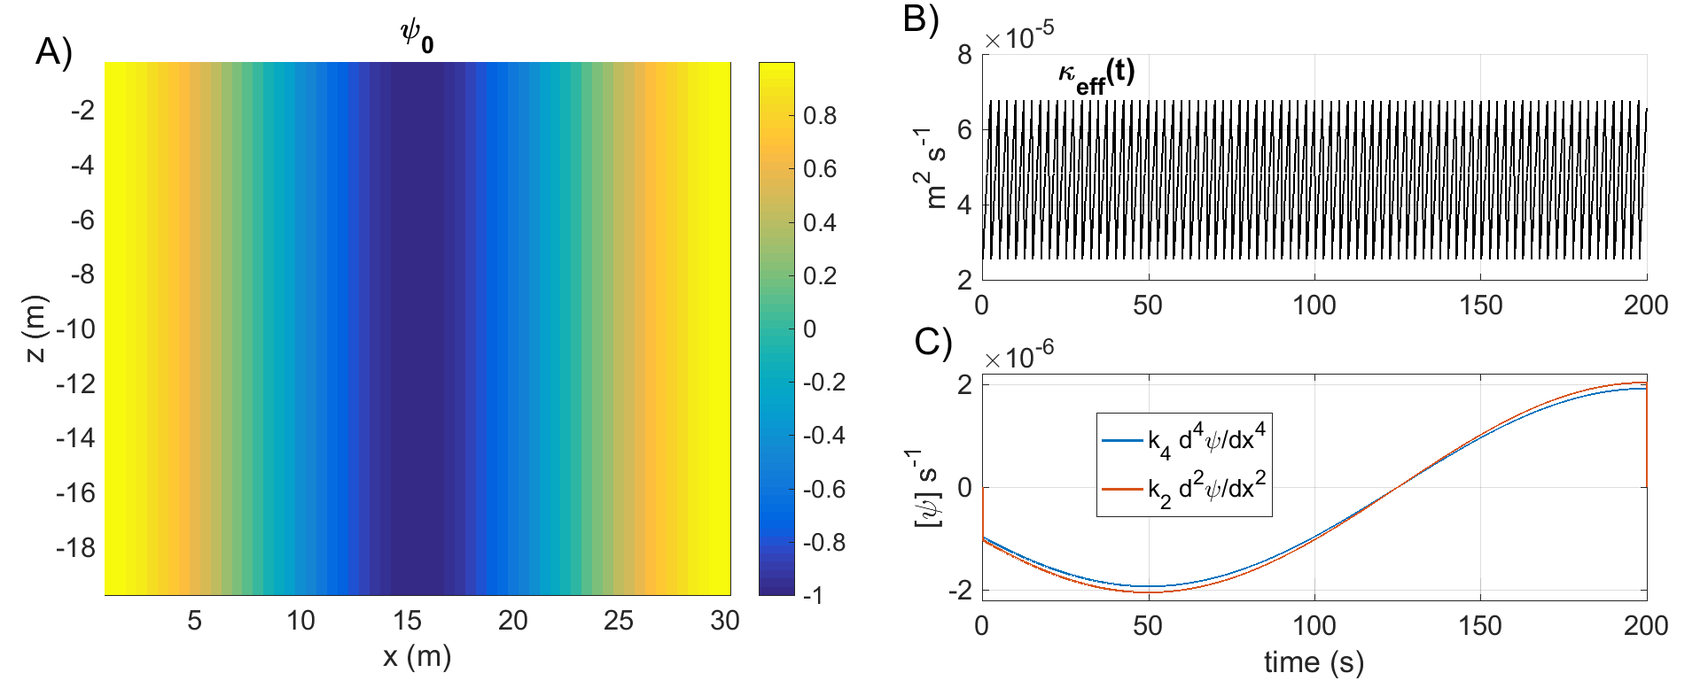
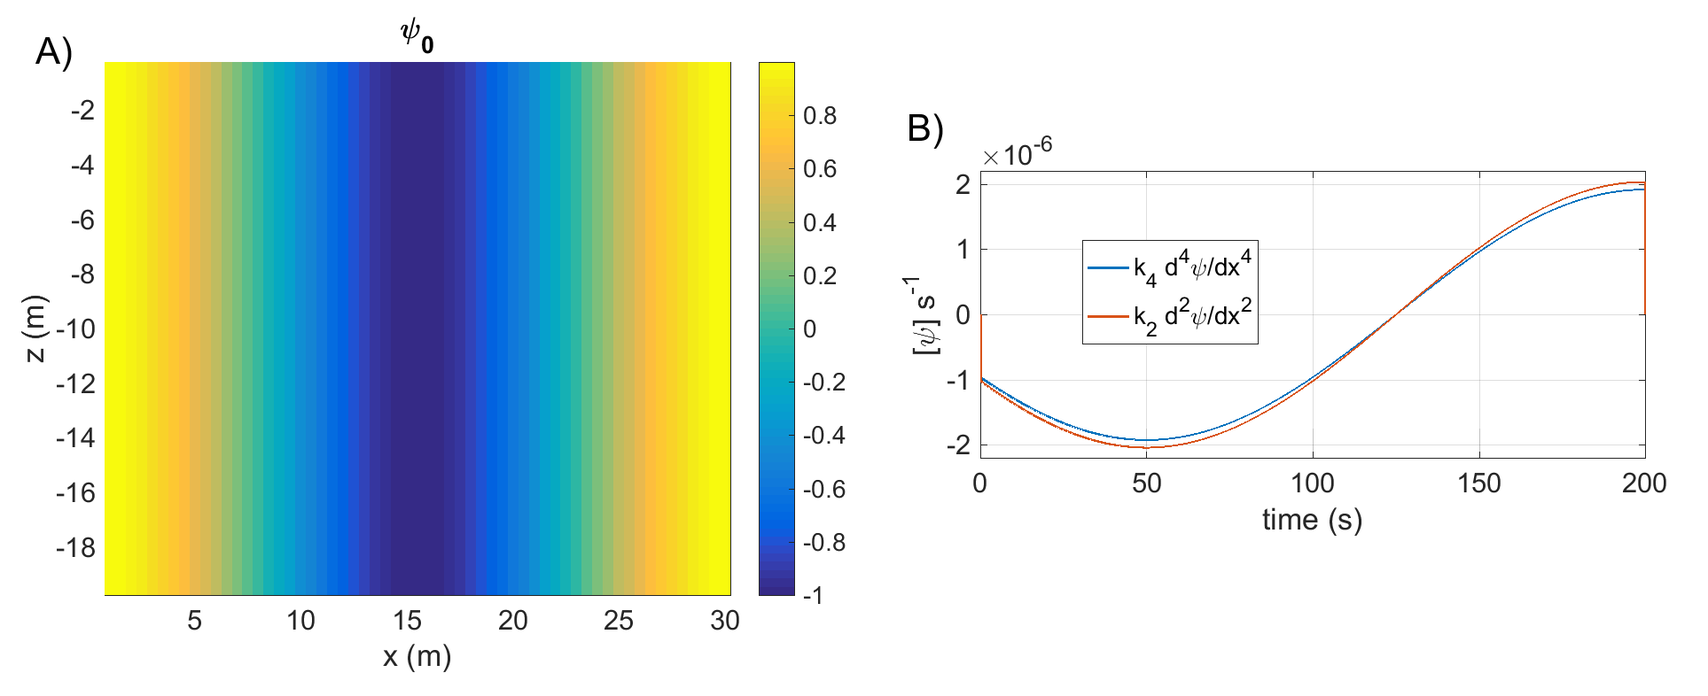
Intro + §5, Francis.

diff --git a/INTRO/intro.tex b/INTRO/intro.tex
@@ -46,7 +46,7 @@ Mais l'océan ne se résume toutefois pas à une somme de processus "forcés" do
 Les vents et les flux de chaleur induisent ainsi des structures dynamiques (baroclines) qui sont brisées lorsque l'écoulement devient instable \citep{vallis_atmospheric_2006}.
 Les \textit{instabilités barotropes et baroclines} sont par conséquent au coeur de cette cascade dite inverse, elles rythment les transferts autour des rayons de Rossby\footnote{Échelle caractéristique de longueur caractérisant localement l'impact de la rotation du globe terrestre sur une colonne océanique de stratification donnée.} barotropes et baroclines dans les écoulements de mésoéchelles. On parle de régime de \textit{turbulence géostrophique} \citep{charney_geostrophic_1971} dans une région du spectre où stratification de la colonne d'eau et rotation du globe terrestre jouent \textit{in fine} des rôles prépondérants et sont associés à des équations de bilan équilibrées de quantité de mouvement. La cascade inverse demeure toutefois un modèle qualitatif fournissant une grille de lecture pour processus complexes et "non localisés" du le spectre océanique.
 
-Des structures de sous-mésoéchelle reçoivent ainsi énergie et enstrophie et sont elles-aussi sujettes à un large éventail d'instabilités \citep{mcwilliams_submesoscale_2016}: instabilité agéostophique, symétrique, frontale, convective ou encore instabilités de cisaillement, instabilités baroclines dans la couche de mélange océanique, instabilités paramétriques des ondes internes... Dans cette région du spectre, l'impact de la rotation du globe terrestre est plus faible qu'à mésoéchelle mais la stratification contraint fortement la dynamique océanique débouchant sur des formes de turbulence dites "stratifiées": \textit{turbulence stratifiée dissipative}, \textit{turbulence fortement stratifiée}. l'instabilité "zig-zag" fait office de pont entre ces deux formes de turbulence).
+Des structures de sous-mésoéchelle reçoivent ainsi énergie et enstrophie et sont elles-aussi sujettes à un large éventail d'instabilités \citep{mcwilliams_submesoscale_2016}: instabilité agéostophique, symétrique, frontale, convective ou encore instabilités de cisaillement, instabilités baroclines dans la couche de mélange océanique, instabilités paramétriques des ondes internes... Dans cette région du spectre, l'impact de la rotation du globe terrestre est plus faible qu'à mésoéchelle mais la stratification contraint fortement la dynamique océanique débouchant sur des formes de turbulence dites "stratifiées": \textit{turbulence stratifiée dissipative}, \textit{turbulence fortement stratifiée} \citep{augier_turbulence_2012}. l'instabilité "zig-zag" fait office de pont entre ces deux formes de turbulence.
 
 Les myriades d'ondes de gravité internes et d'ondes de gravité de surface interagissent aussi au point de donner lieu à une forme particulière de turbulence: \textit{la turbulence d'onde}. Leur déferlement, leurs instabilités donnent généralement naissance à des "patchs turbulents" annoncés par l'apparition de grandes structures turbulentes.
 
@@ -79,10 +79,41 @@ La dissipation turbulente exerce donc une rétroaction sur les plus grandes éch
 \subsection{Le détroit de Gibraltar}
 %(intérêt de la zone en vu du blabla précédent)
 \color{blue}
-Les talus continentaux, dorsales océaniques, les monts sous-marins isolés et autres détroits sont autant d'accidents bathymétriques qui canalisent, perturbent, modifient la circulation générale des masses d'eau océaniques et plus généralement la dynamique de l'océan. Les accidents bathymétriques sont localement le siège de régimes de couches limites particuliers entraînant quasi-systématiquement l'apparition de structures turbulentes très localisées spatialement et ouvrant ainsi les portes de la "terra incognita".\\
-Le détroit de Gibraltar déjà cité dans le paragraphe précédent (\S \noparref{subsection_retroactions}) comme exemple de région abritant des processus de fine échelle structurant la dynamique océanique de grande échelle, constitue l'archétype de l'accident topographique contraignant fortement la dynamique océanique. Il est en effet le lieu de passage obligé des échanges entre les bassins méditerranéens et atlantiques nord.\\
-\color{red}
-Je te laisse compléter avec une présentation de la dynamique de cette région : marée + circulation générale => ressaut + ISW +... fort mélange.\\
+Les talus continentaux, dorsales océaniques, les monts sous-marins isolés et autres détroits sont autant d'accidents bathymétriques qui canalisent, perturbent, modifient la circulation générale des masses d'eau océaniques et plus généralement la dynamique de l'océan. Les accidents bathymétriques sont localement le siège de régimes de couches limites particuliers entraînant quasi-systématiquement l'apparition de structures turbulentes très localisées spatialement et ouvrant ainsi les portes de la "terra incognita".
+
+Le Détroit de Gibraltar, déjà cité dans le paragraphe précédent (\S \noparref{subsection_retroactions}) comme exemple de région abritant des processus de fine échelle structurant la dynamique océanique de grande échelle, constitue l'archétype de l'accident topographique contraignant fortement la dynamique océanique. \color{red}Le détroit est en effet la seule connexion de la mer Méditerranée, mer semi-fermée, à l'océan global. Ses dimensions spatiales sont réduites à la verticale (de 300 à 1km de profondeur) et à l'horizontale (de l'ordre de la quinziane de kilomètres entre les côtes Marocaines et Espagnoles), ce qui va canaliser un échange de masses d'eaux entrantes et sortantes, dit \textit{échange barocline}, entre les deux bassins méditerranéens et atlantiques nord. Le croisement de ces deux flux donne un transport net barotrope qui, en moyenne temporelle, est positif pour la Méditerranée et va compenser l'évaporation annuelle dans ce bassin \citep{bryden_1994}.
+
+La circulation dans le détroit à l'échelle locale ne se résume cependant pas à l'alimentation de la Méditerranée. L'accélération des courants par effet de canalisation par la bathymétrie et les côtes se cumule au courants induits par la marée semi-diurne pour créer une dynamique de courants relativement rapides (pouvant être de l'ordre du $m/s$) qui vont évoluer à l'échelle de l'heure (voir de la demi-heure). En particulier, les courants peuvent être suffisamment rapides pour dépasser la vitesse de propagation de certaines ondes internes de gravité, on dit alors que le flot est surcritique \citep{Baines1995}. La canalisation par la côte et la bathymétrie variant sur des courtes distance, le flot peut passer localement d'un régime surcritique à sous-critique en modifiant les conditions d'écoulement des eaux atlantiques et méditerranéennes. Au niveau du seuil prinicpal du Détroit de Gibraltar, le Seuil de Camarinal, une telle transition entraîne la formation puis la relaxation d'un \textit{ressaut hydraulique} au cours du cycle de marée.
+
+Le Seuil de Camarinal est l'accident bathymétrique le moins profond du détroit et sert de barrière à franchir pour les eaux méditerranéennes qui circulent sous les eaux atlantiques et vont s'écouler comme un courant de gravité ne foid franchis cet obstacle. \citep{wesson_1994,garcia-lafuente_2011}
+
+Additionnellement, la relaxation du ressaut hydraulique se fait sous la forme d'une onde interne de très grande amplitude qui se propage vers la Méditerranée en évoluant en train d'ondes solitaires (ou solitons). 
+
+
+
+
+%Des eaux atlantiques entrent en Méditerranée dans la partie supérieure de la colonne d'eau. Sous cette circulation de surface, des eaux méditerranéennes s'introduisent dans le bassin Atlantique. 
+
+
+
+
+%Au niveau des flux entrant et sortant propres, cette circulation moyenne est de l'ordre de $1 Sverdrup (=10^6 m^3/s)$ 
+
+
+
+
+
+
+
+
+
+
+%\color{red}
+%Je te laisse compléter avec une présentation de la dynamique de cette région : marée + circulation générale => ressaut + ISW +... fort mélange.\\
+
+
+
+
 \color{blue}
 La dissipation turbulente est répartie de façon très hétérogène dans la colonne d'eau océanique, souvent préférentiellement dans les couches de surface et de fond et généralement sous la forme d'évènements intermittents (on parle de bouffées turbulentes). Ces caractéristiques compliquent grandement sa localisation et sa quantification même si son impact sur la circulation générale est maintenant reconnu et décrit de façon très qualitative \cite{de_lavergne_abyssal_2017}. La région du détroit de Gibraltar offre donc un terrain d'étude particulièrement pertinent pour qui souhaite étudier cette dissipation turbulente et ses rétroactions puisque les bouffées turbulentes semblent devoir être associées aux régimes dynamiques présentant de fortes amplitudes de marée (donc facilement localisables dans le temps) et au dessus des principaux seuils parsemant le détroit (donc facilement localisables géographiquement cette fois).\\
 Le choix du détroit de Gibraltar comme région d'étude privilégiée pour mes travaux de doctorat se justifie donc à plusieurs titres. Elle est particulièrement adaptée pour une première exploration en \textit{terra incognita} puisque quelques portes ouvrant une voie vers cette terre inconnue semblent y être facilement localisables: les grandes structures turbulents peuvent être un peu plus facilement localisables, observables et donc simulées explicitement de façon numérique. Le détroit de Gibraltar est de plus une région de choix pour mieux appréhender l'impact (la rétroaction) que pourrait avoir la dissipation turbulente sur la circulation générale dans les bassins méditerranéens et nord-atlantiques: il s'agit donc d'une région de choix pour étudier comment cette dissipation peut structurer une dynamique à beaucoup plus grande échelle.
@@ -94,29 +125,29 @@ Le choix du détroit de Gibraltar comme région d'étude privilégiée pour mes 
 %(verrous puis objectif)
 \subsection{Définir cette région du spectre océanique}
 Objet central de mes travaux de doctorat, les \textit{fines échelles} océaniques doivent en premier lieu être clairement définies. Jusqu'ici, ces fines échelles ont plus spécifiquement été associées dans notre introduction (\S \noparref{subsection_intro1}) à la région du spectre océanique identifiée comme \textit{Terra incognita}.\\
-Les fines échelles sont donc par la suite définies comme les échelles spatiales et temporelles de l'ensemble des processus et autres mécanismes dynamiques de \textit{sous-mésoéchelle} \citep{mcwilliams_submesoscale_2016} auxquels s'ajoutent les grandes structures turbulentes ouvrant la voie à la cascade directe et marquant l'entrée de la \textit{micro-échelle}.
+Les fines échelles sont donc par la suite définies comme les échelles spatiales et temporelles de l'ensemble des processus et autres mécanismes dynamiques de \textit{sous-mésoéchelle} \citep{mcwilliams_submesoscale_2016} auxquels s'ajoutent les grandes structures turbulentes qui ouvrent la voie à la cascade directe et marquent l'entrée de la \textit{micro-échelle}.
  \color{black}
 
 \subsection{Se donner les outils et les moyens d'une telle exploration}
 \color{blue}
 Toute entrée dans un territoire inconnu tel que la \textit{terra incognita} est associée à la reconnaissance et à la levée d'un certain nombre de difficultés. Dans le cas présent, ces "difficultés" prennent la forme de véritables \textit{verrous} d'ordres dynamiques et numériques.
 \subsubsection{Verrous dynamiques.}
-Un certain nombre de "verrous" dynamiques peuvent être identifiés. Les grandes structures turbulentes dont il est en particulier question ici sont le résultat de diverses instabilités "primaires" peuplant la méso et la sous-méso-échelle océaniques: instabilités barotrope, barocline, symétrique, zig-zag, agéostrophique, paramétrique des ondes internes, etc... Ces mécanismes de déstabilisation peuvent être vus comme brisant des structures, des processus, des équilibres subtils régissant localement et de façon éphémère et intermittente la dynamique de l'océan. Leur exploration relève par conséquent plus d'une approche stochastique que purement déterministe.\\
-Les grandes structures turbulentes constituent de plus des processus certes importants mais néanmoins indissociables des transferts d'échelles auxquels elles sont associées. Ni les échelles spatiales ni les échelles temporelles des instabilités de cisaillement ne sont clairement identifiables à partir de grandeurs caractéristiques comme le peuvent être les rayons de Rossby pour la méso-échelle et les instabilités barotropes et baroclines. Leur étude requiert donc la prise en compte simultanée de régions étendues du spectre océanique.\\
+Un certain nombre de "verrous" dynamiques peuvent être identifiés. Les grandes structures turbulentes dont il est en particulier question ici sont le résultat de diverses instabilités "primaires" peuplant la méso et la sous-méso-échelle océaniques: instabilités barotrope, barocline, symétrique, zig-zag, agéostrophique, paramétrique des ondes internes, etc... Ces mécanismes de déstabilisation peuvent être vus comme brisant de façon intermittent des structures, des processus, des équilibres subtils régissant localement et de façon éphémère la dynamique de l'océan. Leur exploration relève par conséquent plus d'une approche stochastique que purement déterministe.\\
+Les grandes structures turbulentes constituent de plus des processus certes importants mais néanmoins indissociables des transferts d'échelles auxquels elles sont associées. Leur localisation au sein du spectre n'est pas chose aisée dans la mesure où ni les échelles spatiales ni les échelles temporelles des instabilités de cisaillement ne sont clairement identifiables à partir de grandeurs caractéristiques comme le peuvent être les rayons de Rossby pour la méso-échelle et les instabilités barotropes et baroclines. Leur étude requiert donc la prise en compte simultanée de régions étendues du spectre océanique.\\
 
 \subsubsection{Verrous numériques.}
-Les grandes structures turbulentes étaient traditionnellement l'apanage des modèles "sous-maille" dans les configurations océaniques côtières, régionales et à fortiori globales. N'étant par conséquent pas universels, ces modèles "sous-maille" rendent la simulation très dépendante du lieu et de la période étudiés: les "modèles de fermeture" doivent en effet être ajustés et confrontés à la réalité avec comme principal enjeu le choix du modèle et la détermination des paramètres physiques ou numériques qu’il inclut nécessairement. Si la mise en place de configurations LES est envisageable et envisagée dans l’océan intérieur et peut donc être appuyée sur des modèles de turbulence plus universels et plus simple, elle demeure par contre hors d’atteinte dans les couches limites de surface et fond, régions dans lesquelles leurs échelles spatiales caractéristiques peuvent considérablement décroître pour être finalement de l'ordre du mètre. Des approches hybrides LES / RANS\footnote{Pour Reynolds Averages Simulations.} dites "zonales" doivent par conséquent être envisagées \citep{friess_modelisation_2010} afin d'associer approche LES là où cela est possible et approche RANS là où cela est indispensable.\\
+Les grandes structures turbulentes étaient traditionnellement l'apanage des modèles "sous-maille" dans les configurations océaniques côtières, régionales et à fortiori globales. N'étant par conséquent pas universels, ces modèles "sous-maille" rendent la simulation très dépendante du lieu et de la période étudiés: les "modèles de fermeture" doivent en effet être ajustés et confrontés à la réalité avec comme principal enjeu le choix du modèle et la détermination des paramètres physiques ou numériques. Si la mise en place de configurations LES est envisageable et envisagée et peut donc être appuyée sur des modèles "sous maille" plus universels et plus simple, elle demeure par contre hors d’atteinte dans les couches limites de surface et fond, régions dans lesquelles leurs échelles spatiales caractéristiques peuvent considérablement décroître pour être finalement de l'ordre du mètre. Des approches hybrides LES / RANS\footnote{Pour Reynolds Averages Simulations.} dites "zonales" doivent par conséquent être envisagées \citep{friess_modelisation_2010} afin d'associer approche LES là où cela est possible et approche RANS là où cela est indispensable.\\
 La simulation explicite des grandes structures turbulents engendre l'utilisation de grilles de calcul à très haute résolution sur des régions océaniques à priori relativement étendues. Elle requière donc un nouvel effort de réduction du coût de calcul et s'inscrit de fait dans le cadre d'approches numériques massivement parallèles associées au \textit{Calcul dit Haute Performance} (HPC).
 
 \color{black}
 \subsection{Simuler explicitement les fines échelles}
 \color{blue}
 Explorer numériquement les fines échelles océaniques implique de simuler explicitement les grandes structures turbulentes et l'on entre ainsi de plain-pied dans une approche numérique dite \textit{LES (pour \textit{Large Eddy Simulation})}.\\
-La promesse d’une puissance de calcul pétaflopique puis exaflopique a, en théorie au moins, ouvert les portes de la simulation des grandes structures turbulentes (LES) pour l’océan et l’atmosphère. Les météorologues ont par exemple rapidement su tirer parti des moyens de calcul disponibles : des algorithmes dédiés ont vu le jour dès le début des années 2000 débouchant sur des codes numériques tels que WRF en version compressible ou Méso-NH en version anélastique. Ces deux types de codes permettent, chacun avec leurs spécificités, d’aborder la simulation de la cascade turbulente directe en représentant explicitement les plus grandes structures turbulentes dans l’atmosphère.
-Les modèles océaniques n’ont pas été immédiatement en mesure de franchir ce cap de la LES en grande partie à cause de la présence d’une surface libre aux conséquences dynamiques multiples. La surface libre rend en particulier plus complexe la relaxation de l’hypothèse hydrostatique. Dans la foulée de l’ANR COMMODO rassemblant au milieu des années 2010 l’ensemble des équipes françaises travaillant sur la modélisation de l’océan, les équipes de recherche en océanographie dynamique et en mathématiques partenaires du projet CROCO se sont associées pour développer une nouvelle génération de codes capables d'explorer la "Terra Incognita". Un Groupement de Recherche éponyme est né associant l’université de Toulouse et les principaux organismes de recherche en informatique et en océanographie français: l’IRD, INRIA, le CNRS-INSU, l’IFREMER et le SHOM. En 2021, l’IRD a entériné la constitution d’un GdRi CROCO tourné vers nos partenaires au Sud.\\
+La promesse d’une puissance de calcul pétaflopique puis exaflopique a, en théorie au moins, ouvert les portes de la simulation des grandes structures turbulentes (LES) pour l’océan et l’atmosphère. Les météorologues ont par exemple rapidement su tirer parti des moyens de calcul disponibles: des algorithmes dédiés ont vu le jour dès le début des années 2000 débouchant sur des codes numériques tels que WRF \citep{skamarock_prototypes_2001} en version compressible ou Méso-NH \citep{lac_overview_2018} en version anélastique. Ces deux types de codes permettent, chacun avec leurs spécificités, d’aborder la simulation de la cascade turbulente directe en représentant explicitement les plus grandes structures turbulentes dans l’atmosphère.
+Les modèles océaniques n’ont pas été immédiatement en mesure de franchir ce cap de la LES en grande partie à cause de la présence d’une surface libre aux conséquences dynamiques multiples. Cette dernière rend en particulier plus complexe la relaxation de l’hypothèse hydrostatique: elle est en effet parcourue par des ondes de gravité se propageant très rapidement et présentant des dynamiques différentes selon que l'hypothèse "onde longue" (hydrostatique) est, ou non, satisfaite. Cette surface libre a en parculier été associée à des choix algorithmiques et numériques spécifiques que la séparation des pas de temps (\textit{time splitting} en anglais) dont la généralisation sous une hypothèse non-hydrostatique doit être réalisée avec soin \citep{auclair_non-hydrostatic_2011,auclair_non-hydrostatic_2018}.\\
 Plusieurs pré-requis ont toutefois dû être satisfaits avant de lancer une exploration numérique des grandes structures turbulentes dans un contexte réaliste aussi complexe que celui du détroit de Gibraltar.
-L'hypothèse hydrostatique, elle-aussi héritée du code ROMS, devait à minima être remise en cause en demeurant dans le contexte d'un océan à surface libre. Ceci fut chose en fait en relaxant aussi l'hypothèse de Boussinesq comme préconisée dans un contexte océanique par \cite{auclair_non-hydrostatic_2018}. L'héritage reçu du code américain ROMS \citep{shchepetkin_regional_2005} avait fait de CROCO un code particulièrement efficace dont le coeur numérique (son time-splitting, ses schémas numériques...) a été spécifiquement conçu pour limiter les coûts de calcul et l'utilisation de l'espace mémoire. Ce niveau de performance numérique a été maintenu pour son noyau numérique compressible et non-hydrostatique dans un contexte massivement parallèle.\\
-De nouvelles recherches ont été entamées en parallèle de mes travaux de thèse pour (i) porter le code sur une nouvelle génération de processeurs dits hétérogènes (associant CPU et GPU), (ii) permettre le raffinement local de la dynamique océanique par imbrication de configurations LES dans des maquettes numériques régionales très étendues et (iii) repenser la simulation des grandes structures turbulentes dans un contexte "stochastique" \cite{memin_fluid_2014}. Les maquettes que j'ai développées ou co-développées dans le cadre de mes travaux de thèse ont servi durant ces trois années et servent actuellement de configuration-tests pour l'ensemble de ces développements transformant le détroit de Gibraltar en une région de démonstration. \\
+Pour ce faire, dans la foulée de l’ANR COMMODO rassemblant au milieu des années 2010 l’ensemble des équipes françaises travaillant sur la modélisation de l’océan, les équipes de recherche en océanographie physique et en mathématiques se sont associées au sein du projet CROCO. Un Groupement de Recherche éponyme est né associant les principaux organismes de recherche en informatique et en océanographie français: l’IRD, INRIA, le CNRS-INSU, l’IFREMER et le SHOM avec l'Université de Toulouse Paul Sabatier. En 2021, l’IRD a entériné la constitution d’un GdR-international CROCO tourné vers les partenaires du projet au Sud. L'hypothèse hydrostatique, elle-aussi héritée du code ROMS, devait à minima être remise en cause tout en demeurant dans le contexte d'un océan à surface libre. Ceci fut chose faite en relaxant aussi l'hypothèse de Boussinesq comme préconisée dans un contexte océanique par \cite{auclair_non-hydrostatic_2018}. L'héritage reçu du code américain ROMS \citep{shchepetkin_regional_2005} avait fait de CROCO un code particulièrement efficace dont le coeur numérique (time-splitting, schémas numériques...) a été spécifiquement conçu pour limiter les coûts de calcul et l'utilisation de l'espace mémoire. Ce niveau de performance numérique a été maintenu pour le noyau numérique compressible et non-hydrostatique dans un contexte massivement parallèle.\\
+Afin de répondre finalement à l'ensemble des verrous dynamiques et numériques identifiés, de nouvelles recherches ont été entamées en parallèle de mes travaux de thèse pour (i) porter le code sur une nouvelle génération de processeurs dits hétérogènes (associant CPU et GPU), (ii) permettre le raffinement local de la dynamique océanique par imbrication de configurations LES dans des maquettes numériques régionales très étendues et (iii) repenser la simulation des grandes structures turbulentes dans un contexte "stochastique" \cite{memin_fluid_2014}. Les maquettes que j'ai développées ou co-développées dans le cadre de mes travaux de thèse ont servi durant ces trois années et servent actuellement de configuration-tests pour l'ensemble de ces développements transformant le détroit de Gibraltar en une région de démonstration. \\
 \color{blue}
 \subsection{Où l'on justifie une démarche scientifique pour cette exploration...}
 \color{black}

diff --git a/CHAP_BPE/chap5.tex b/CHAP_BPE/chap5.tex
@@ -84,9 +84,9 @@ Total volume is supposed to remain constant so that the RHS term $\phi_{\zeta}$ 
 Depending on the test-case considered, the initial field of passive tracer is either equal to $\psi_1(x)=cos(2\pi x/L_x)$ or to $\psi_2(x,z)=Re(e^{i2\pi x/L_x}e^{i 2 \pi z/L_z})$.
 
 \subsection{Local diffusion test configuration $(BPE_{exp})$}
-\color{red} Intervertir section advection et diffusion???\color{black}
+\color{red} Intervertir section advection et diffusion??? Nous n'en avons pas reparlé ce mercredi matin Margaux... mais j'en resterais là!\color{black}
 
-The first implementation is that of a diffusive but advection-free flow ($u=0m/s$). The main numerical parameters are given in table \ref{tab_NUMLAB_exp}.
+The first implementation is that of a diffusive but advection-free flow ($U\ =\ 0m/s$). The main numerical parameters are given in table \ref{tab_NUMLAB_exp}.
 
 \begin{table}[h]
         %\begin{minipage}{.6\textwidth}
@@ -122,15 +122,11 @@ The first implementation is that of a diffusive but advection-free flow ($u=0m/s
 %\item For x$<$15 m, $\kappa_{exp} = 10^{-3}$, otherwise $\kappa_{exp} = 10^{-2}$ m$^2$/s.
 
 The chosen initial passive tracer field is given by $\psi_2 (x,z)$ and is shown in figure (\noparref{fig2numlab}.A1).
-
 To evaluate the capacity of the algorithm to deal with local variations of mixing (i.e. when the intensity of turbulent mixing is varying in space), the explicit diffusivity $\kappa_{exp}$ of equation \ref{eqAdvDiff} is non-homogeneous over the domain. It is one order of magnitude greater over the right half of the domain ($10^{-2}$ vs. $10^{-3} \ kg/m^3$ in the left half), so that as can be seen in figure (\noparref{fig2numlab}.A2) gradients are smoothed faster in this part of the grid.
-
-The evaluation of $\kappa_{eff}$ presented in the previous section is carried out either for each half domain or for the whole domain. Three $z^*(\rho)$ reference profiles (respectively $z^*_{left}$, $z^*_{right}$ and $z^*_{all}$) are consequently computed with the "re-arrangement" algorithm considering only the fluid parcels in the left sub-domain, the right sub-domain, or the whole domain. Exemple of those profiles are presented in figures (\noparref{fig2numlab}.B1 and B2).
-
-Figures (\noparref{fig2numlab}.C to F) present the terms of equation \ref{bilanBPEal} computed from each reference profiles. It must be noted that neither the diffusive term $\phi_D$ nor the evolution of BPE $dPE_B/dt$ computed for the whole domain are equal to the sum of those terms computed on each half domain (for exemple $\phi_D^{all} \ne \phi_D^{left}+\phi_D^{right}$). This is due to the different definition of $z^*(\psi)$ depending of the domain extension chosen for the rearrangement. In the same way, the diffusive fluxes $F_D$ of figure (\noparref{fig2numlab}.D) do not cancel each other from one half domain to the other past the initialization as $z^*_{left}$ and $z^*_{right}$ diverge.
-
+The evaluation of $\kappa_{eff}$ presented in the previous section is carried out either for each half domain or for the whole domain. Three $z^*(\rho)$ reference profiles (respectively $z^*_{left}$, $z^*_{right}$ and $z^*_{all}$) are consequently computed with the "re-arrangement" algorithm considering only the fluid parcels in the left sub-domain, the right sub-domain, or the whole domain. Examples of those profiles are presented in figures (\noparref{fig2numlab}.B1 and B2).
+Figures (\noparref{fig2numlab}.C to F) present the terms of equation \ref{bilanBPEal} computed from each reference profiles. It must be noted that neither the diffusive term $\phi_D$ nor the evolution of BPE $dPE_B/dt$ computed for the whole domain are equal to the sum of those terms computed on each half domain (for example $\phi_D^{all} \ne \phi_D^{left}+\phi_D^{right}$). This is due to the different definition of $z^*(\psi)$ depending of the domain extension chosen for the rearrangement. In the same way, the diffusive fluxes $F_D$ of figure (\noparref{fig2numlab}.D) do not cancel each other from one half domain to the other past the initialization as $z^*_{left}$ and $z^*_{right}$ diverge.
 %In turn, the amplitude of the term $\phi_D$ varies depending if it is calculated for the latest $z^*_{all}$ reference profile or if it is obtained as the sum  $\phi_D^{left}+\phi_D^{right}$. The diapycnal fluxes $\phi_D^{left}$ and $\phi_D^{right}$ in this sum are themselves calculated respectively with the reference profiles $z^*_{left}$ or $z^*_{right}$. These fluxes do not cancel each other in so far as they are computed locally based on the local reference profiles of each sub-domain.
-If the effective diffusivity $(\kappa_{eff})$ is evaluated over each half domain, figure (\noparref{fig2numlab}.E) shows that the algorithm provides the correct value of the diffusivity with: $\kappa_{eff}\approx\kappa_{exp}$. If $\kappa_{eff}$ is now evaluated over the whole domain, it is initially equivalent to the overall explicit mean diffusivity $(\kappa_{left}+\kappa_{right})/2$ but it decreases afterwards with time. \color{red}, approaching the value of $\kappa_{exp}^{left}$ after $t \approx 3.10^4s$. So the global effective diffusivity tends to approach the value associated with the evolution in the area of 'lesser mixing' where gradients of the tracer field are the less affected.\color{black}
+If the effective diffusivity $(\kappa_{eff})$ is evaluated over each half domain, figure (\noparref{fig2numlab}.E) shows that the algorithm provides the correct value of the diffusivity with: $\kappa_{eff}\approx\kappa_{exp}$. If $\kappa_{eff}$ is now evaluated over the whole domain, it is initially equivalent to the overall explicit mean diffusivity $(\kappa_{left}+\kappa_{right})/2$ but it decreases afterwards with time, approaching the value of $\kappa_{exp}^{left}$ after $t \approx 3.10^4s$. So the global effective diffusivity is finally close to the smallest value in the domain. The smallest value is associated with the half domain where gradients of the tracer field are at that time less affected by dissipation.
 %, as diffusion is 'more efficient' on the right half of the domain,
 %Because $\kappa_{eff}$ is computed as homogeneous, it must reflect the global diffusion process, however as time goes by in the simulation, diffusion is more efficient over the right half domain, for greater and greater $t$ the gradients of $\psi$ there will be smoothed out before   NON This can be explained by the differences in the re-arranged reference profiles. When this reference profile is computed "locally" (this is the case when the effective diffusivity is evaluated locally to compute $\kappa_{right}$, it is smoothed out quicker. As a consequence, the evaluated diapycnal flux decreases.\color{black}
 %As time goes on, the effective diffusivity 
@@ -190,7 +186,7 @@ This leads to an analytical formulation of the implicit diffusion coefficient fo
 \end{equation}
 The implicit diffusivity consequently varies linearly with the grid scale and for $\Delta x\ =\ 0.5\ m$ (respectively $\Delta x\ =\ 1.5\ m$), it can reach $\kappa_{h,imp}\ =\ 0.025\ m^2/s$  (respectively $0.075\ m^2/s$).
 
-\color{red}Figure \ref{fig3numlab} shows that the correct value of the implicit diffusivity $(\kappa_{eff}=\kappa_{imp})$ can be recovered with the BPE algorithm only if the vertical component of the diffusion flux is not taken into account, i.e. when the along-flow diffusion flux only is considered. \color{blue} If both the horizontal and vertical components of the fluxes are retained in the evolution equation, the BPE algorithm leads to a smaller value of the effective diffusivity.
+Figure \ref{fig3numlab} shows that the correct value of the implicit diffusivity $(\kappa_{eff}=\kappa_{imp})$ can be recovered with the BPE algorithm only if the vertical component of the diffusion flux is not taken into account, i.e. when the along-flow diffusion flux only is considered. If both the horizontal and vertical components of the fluxes are retained in the evolution equation, the BPE algorithm leads to a smaller value of the effective diffusivity.
 %Otherwise, the simulated evolution of the tracer field is assumed to come from isotropic diffusion in both vertical and horizontal direction, consequently $\kappa_{eff}$ is evaluated as lesser since there is this added contribution of vertical diffusion of equation \ref{bilanBPEal}. Note that it is possible to know that this latter hypothesis is wrong only because the model is specified to have no explicit diffusivity and only horizontal advection that induces numerical diffusion along this direction. 
 \color{black}
 
@@ -203,22 +199,18 @@ A third-order upstream advective scheme (UP3) is now associated to the RK3 time-
 \frac{\partial \psi}{\partial t}+U \frac{\partial \psi}{\partial x} = \underbrace{\frac{1}{120}(5 C^3-10) U \Delta x^3}_{k_4}  \frac{\partial^4 \psi}{\partial x^4} + \mathcal{O}(\frac{\partial^5 \psi}{\partial x^5})
 \end{equation}
 where $C\ =\ U\Delta t/\Delta x$ is the advection Courant number. With $C=2 . 10^{-2}$ in the present configuration, the fourth order diffusivity takes the value $k_4\ =\ -1.10^{-3} m^4/s$. Note that the BPE algorithm conducted so far gives an implicit diffusion in form of a second-order diffusivity $k_2=\kappa_{eff}$.
-\color{red}This effective diffusivity is evaluated for several experiments of this configuration (table \ref{table_kappa}). In those experiments, in addition to the effect of the implicit diffusivity from the $UP3$ scheme, explicit harmonic diffusion is added, so that the effective diffusivity should be the sum of both contributions $\kappa_{eff} \approx \kappa_{exp} + \kappa_{imp}$.
-Figure (\noparref{fig5numlab}.B) presents the $\kappa_{eff}$ thus evaluated for the experiment with $\kappa_{exp}\ =\ 0 \ m^2/s$. It presents high-frequency oscillations with a non-negligible relative amplitude. Those oscillations are found regardless of the value of $\kappa_{exp}$. \color{blue} To remove these oscillations, the value of $\kappa_{eff}$ indicated in table \ref{table_kappa} has been averaged over the whole simulation time. \color{red} Once $\kappa_{exp}$ is removed from $\kappa_{eff}$, a unique value of $\kappa_{imp,2}$ is recovered at $4.65.10^{-5}\ m^2/s$ for all experiments.
-
+This effective diffusivity is evaluated for several experiments relying on this configuration (table \ref{table_kappa}). In those experiments, in addition to the effect of the implicit diffusivity from the $UP3$ scheme, explicit harmonic diffusion is added, so that the effective diffusivity should be the sum of both contributions $\kappa_{eff} \approx \kappa_{exp} + \kappa_{imp}$.
+The computed effective diffusivity show high-frequency oscillations with a non-negligible relative amplitude (not shown). Those oscillations are found regardless of the value of $\kappa_{exp}$. To filter out these oscillations, the value of $\kappa_{eff}$ indicated in table \ref{table_kappa} has been averaged over the whole simulation time. This is in agreement with the requirements of the treatment of the BPE evolution equation \ref{bilanBPEal} which requires that the effective diffusivity be computed over a period of time large enough with respect to the time-scale of the dissipation.
+Once $\kappa_{exp}$ is removed from $\kappa_{eff}$, a unique value of $\kappa_{imp,2}$ is recovered at $4.65.10^{-5}\ m^2/s$ for all experiments.
 %Several experiments are carried out with the configuration of schemes: in addition to the implicit diffusion induced by the upstream advection scheme, an explicit harmonic diffusion is also specified. 
-
 %The effective coefficient found by BPE analysis consequently builds up to $\kappa_{eff} = \kappa_{exp} + \kappa_{imp}$.
 %Figure \ref{fig5numlab}.b and table \ref{table_kappa} compare the effective diffusivity obtained with the BPE algorithm for several values of $\kappa_{exp}$. This diffusivity presents high-frequency oscillations with a non-negligible relative amplitude.
 %\color{red}(correspond temps d'advection d'une cellule??? à vérifier (ou vient calcul des termes du bilan pas en RK3?))\color{black}. \\
 %When averaged in time over the whole simulation, the effective diffusivity reaches approximately $4.65.10^{-5} m^2/s$ when $\kappa_{exp}\ =\ 0$. It is then evaluated for a series of configurations with non-zero explicit diffusivity and the (effective) implicit diffusivity $\kappa_{imp}$ is computed as the time-averaged effective diffusivity over the period minus the explicit diffusivity. The same  value of $4.65.10^{-5}\ m^2/s$ is recovered in all experiments.
 %Since this value is for harmonic diffusion, the diffusion terms based on the effective second order diffusivity $(k_{imp,2}\ =\ \kappa_{eff}-\kappa_{exp})$ and on the analytical fourth-order diffusivity $k_4$ computed above can be compared in figure (\noparref{fig5numlab}.C) as factors of either the second or fourth order spatial derivate of $\psi$ taken at a random grid point. These terms are close to each other. 
-To compare the effective second-order diffusivity $(k_{imp,2}\ =\ \kappa_{eff}-\kappa_{exp})$ with the analytical fourth-order diffusivity $k_4$, figure (\noparref{fig5numlab}.C) shows the evolution of the passive tracer field $(\psi)$ with the resulting second and fourth-order diffusion schemes. The resulting trends are close to each.
-\color{red}Note that the second-order and fourth-order advection terms do not operate in a similar way in wave-number space. Indeed, the fourth order is a more selective filter, smoothing more specifically small-scale gradients of passive tracer. This might be sufficient to explain the differences observed in figure (\noparref{fig5numlab}.C).
+To compare the effective second-order diffusivity $(k_{imp,2}\ =\ \kappa_{eff}-\kappa_{exp})$ with the analytical fourth-order diffusivity $k_4$, figure (\noparref{fig5numlab}.B) shows the evolution of the passive tracer field $(\psi)$ with the resulting second and fourth-order diffusion schemes. The resulting trends are close to each.
+Note that the second-order and fourth-order advection terms do not operate in a similar way in wave-number space. Indeed, the fourth order is a more selective filter, smoothing more specifically small-scale gradients of passive tracer. This might be sufficient to explain the differences observed in figure (\noparref{fig5numlab}.B).
 %\end{itemize}
-
-\color{black}
-
 \begin{table}[h!]
 \centering
 \begin{tabular}{|l|l|l|l|l|l|l|l|l|l|l|}
@@ -237,16 +229,13 @@ $\kappa_{imp}$&\multicolumn{6}{c|}{$4.65.10^{-5}$}\\
 \begin{figure}[h!]
 \centering
 \includegraphics[width=1\textwidth]{./CHAP_BPE/AGBPE_numlab5.png}
-\caption{(A) Initial tracer field. (B) Evolution of $\kappa_{eff}$ for the case with no explicit diffusion $\kappa{exp}=0$. (C) Comparison of the fourth-order (with analytical value of the coefficient $k_4$) and second-order (with value of $k_2$ deduced from $\kappa_{eff}$ in table \ref{table_kappa}) formulation of diffusion at a random grid point.}
+\caption{(A) Initial tracer field. (B) Comparison of the fourth-order (with analytical value of the coefficient $k_4$) and second-order (with value of $k_2$ deduced from $\kappa_{eff}$ in table \ref{table_kappa}) formulation of diffusion at a random grid point.}
 \label{fig5numlab}
 \end{figure}
 
 \subsection{Diffusion and advection timescales ($BPE_{ts}$)}
-
-\color{red}(Same case as $BPE_{exp}$ but with advection too)\color{black}
-
 A third and last experiment ($BPE_{ts}$) based on the advection-diffusion equation of a passive tracer field is now presented to better understand the limitation of the BPE algorithm in terms of characteristic time and length scales. The idea is that the BPE algorithm can only give an accurate, valuable value of the effective diffusivity if (i) this diffusivity can be considered as homogeneous and can thus be extracted from the integral of the diapycnal flux in equation \ref{bilanBPEal} and (ii) diapycnal fluxes can be evaluated over time-scales (much) larger than the time-scale of the diapycnal fluxes at stake but also larger than the remaining dynamical time-scales in the studied ocean region.
-Table \ref{tab_NUMLAB_ts} shows the physical and numerical parameters chosen for this experiment. Both advection and diffusion are active and the advection scheme is a second-order centered scheme (C2) known to lead to a vanishing implicit dissipation.\\
+Table \ref{tab_NUMLAB_ts} shows the physical and numerical parameters chosen for this experiment. The configuration is similar to $BPE_{exp}$ but both advection and diffusion are now active and the advection scheme is a second-order centered scheme (C2) known to lead to a vanishing implicit dissipation.\\
 \begin{table}[h]
         %\begin{minipage}{.6\textwidth}
         \centering
